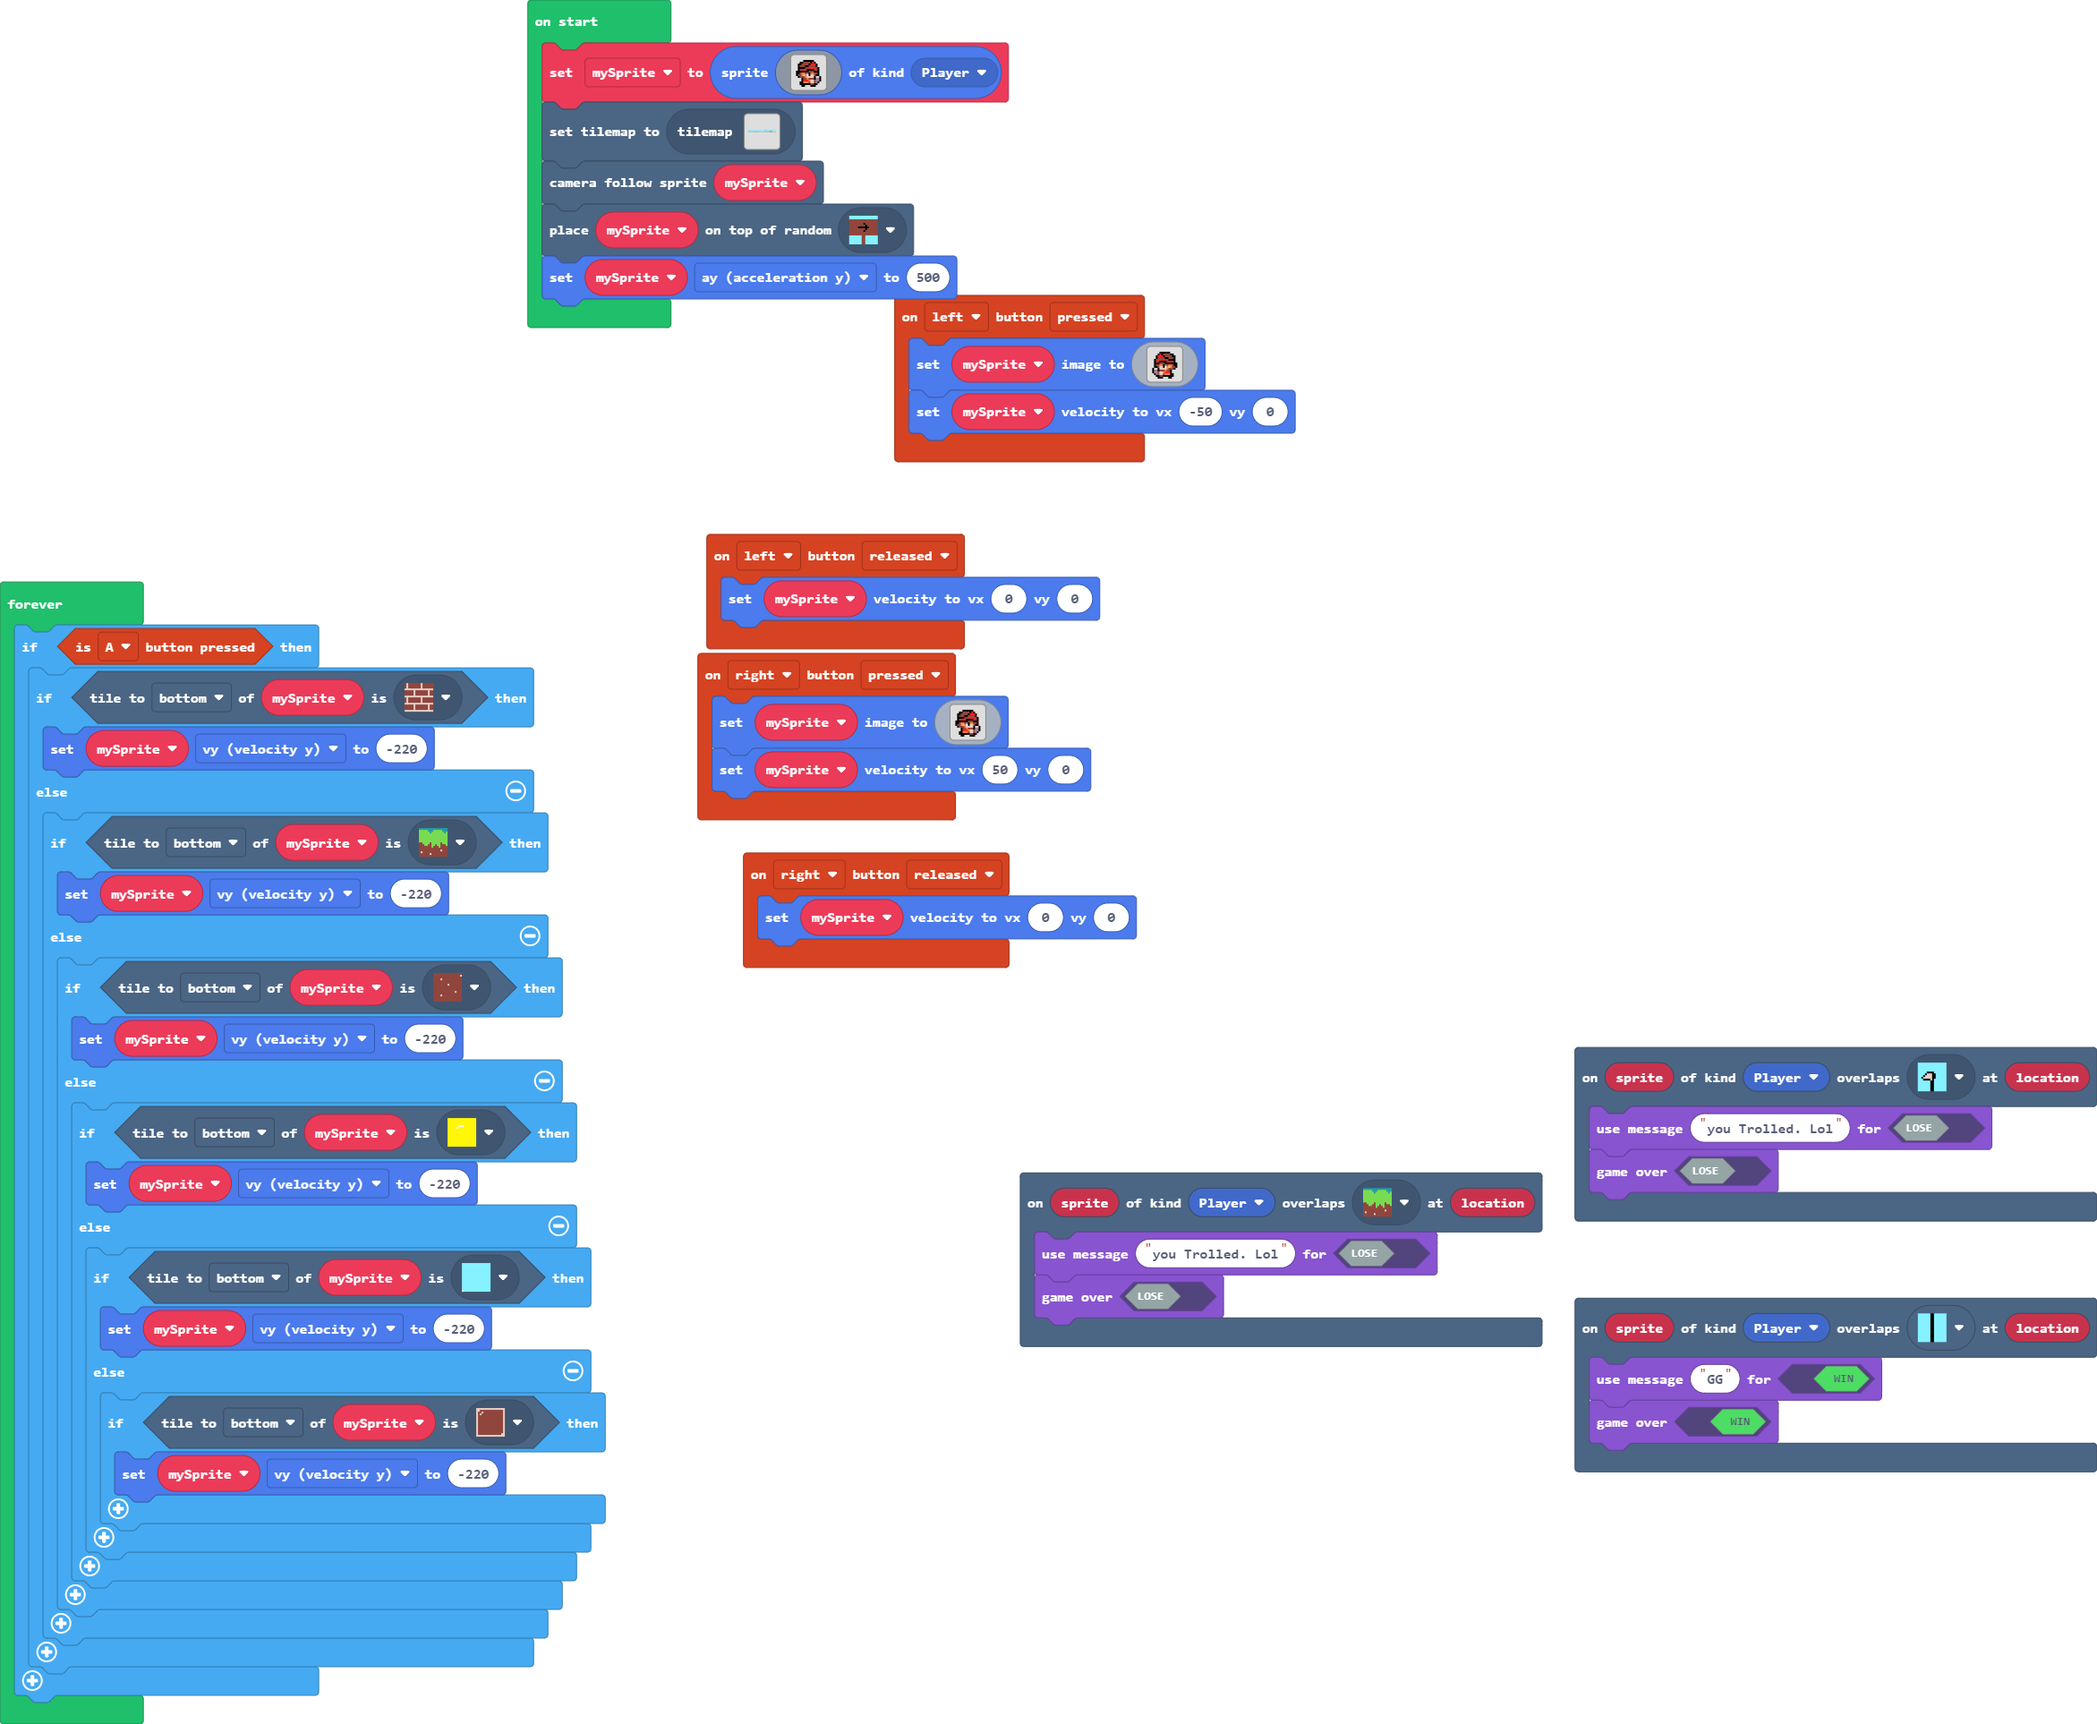
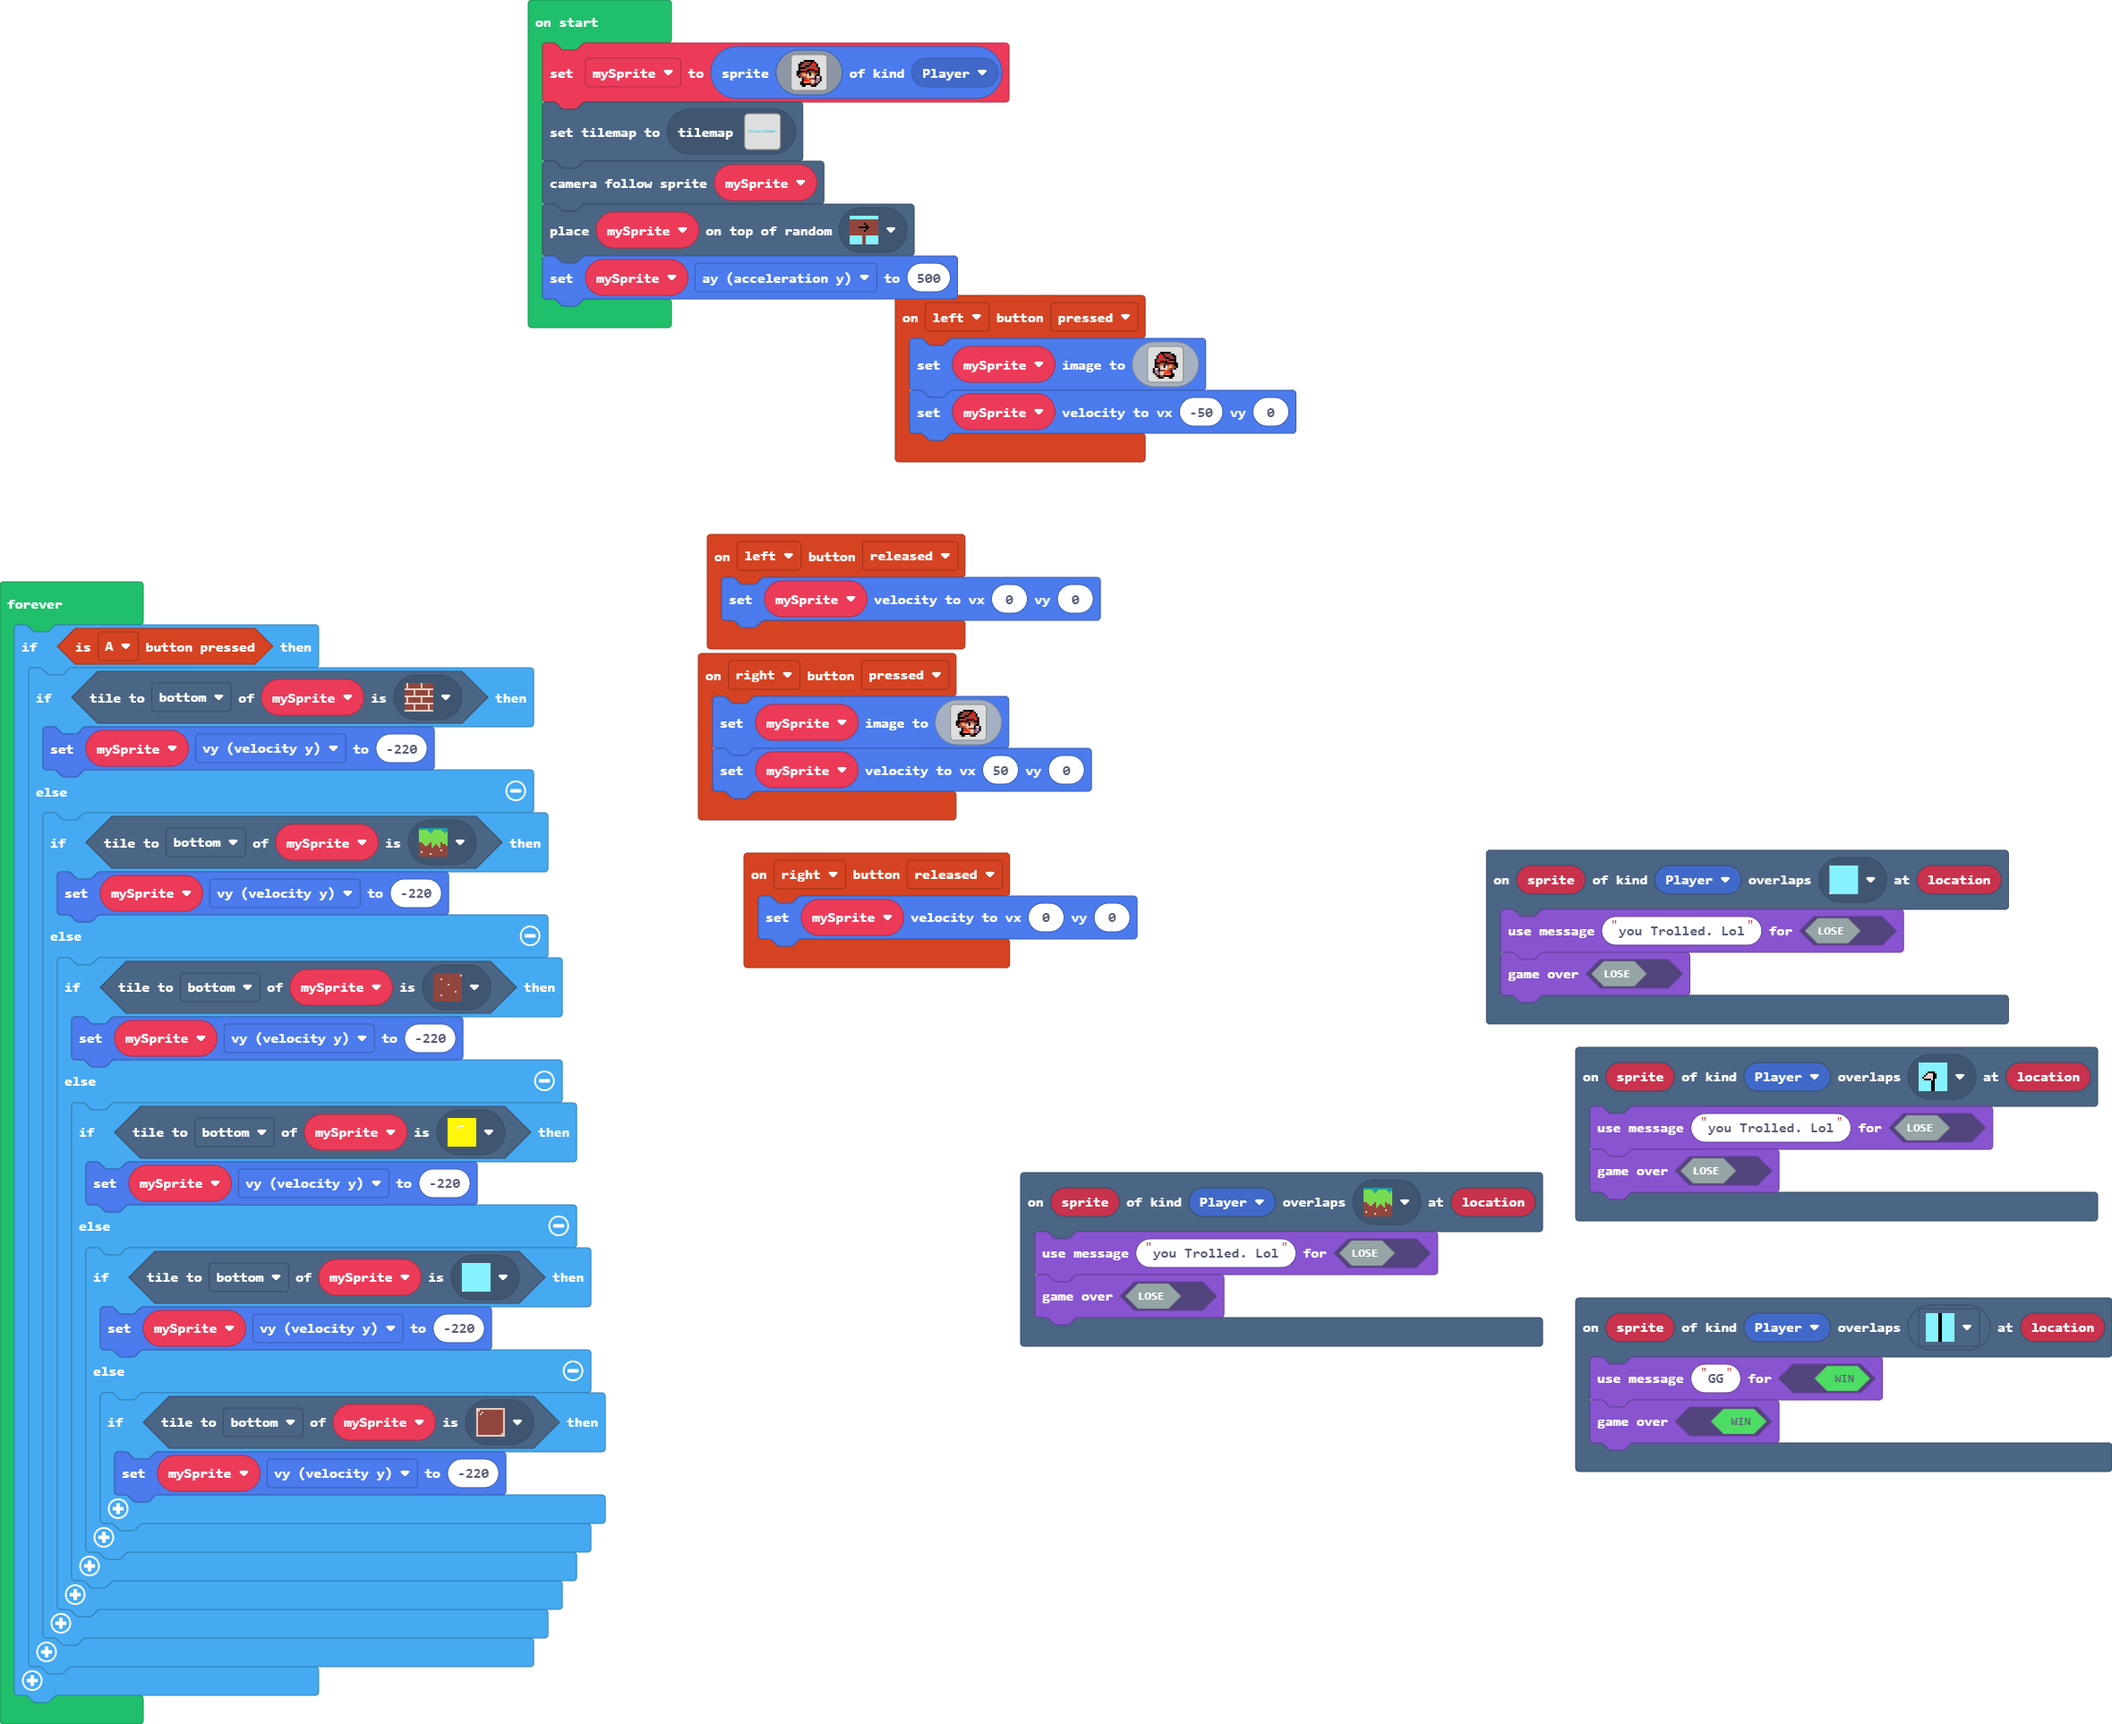
2nd version

diff --git a/tilemap.g.ts b/tilemap.g.ts
@@ -113,17 +113,6 @@ namespace myTiles {
 . . . . . . . . . . . . . . . . 
 . . . . . . . . . . . . . . . . 
 `, [myTiles.transparency16], TileScale.Sixteen);
-            case "level1":
[1 lines of base64/hex data omitted]
-....................................................2...............................................
-............2.................................2.....2........22222..................................
-..........................2.2.......................2..............................2................
-....................................................2.............................22................
-....22222..2..................2..............2......2......2222222...........22..222................
-....................2....2....2....2....................................2....22.2222................
-....................2....2....2....2....2...........2..................222...2222222................
-222222222222...2222222222222222222222222222222...222222222222222222222222222222222222222222222222222
-`, [myTiles.transparency16,myTiles.tile6,myTiles.tile4,myTiles.tile14,myTiles.tile7,myTiles.tile11,myTiles.tile12,myTiles.tile2,myTiles.tile10,myTiles.tile1,myTiles.tile3], TileScale.Sixteen);
             case "level6":
             case "level6":return tiles.createTilemap(hex`1000100000000000000000000000000000000000000000000000000000000000000000000000000000000000000000000000000000000000000000000000000000000000000000000000000000000000000000000000000000000000000000000000000000000000000000000000000000000000000000000000000000000000000000000000000000000000000000000000000000000000000000000000000000000000000000000000000000000000000000000000000000000000000000000000000000000000000000000000000000000000000000000000000000000000000000000000000000000000000000000000000000000000000000000000000000000000`, img`
 . . . . . . . . . . . . . . . . 
@@ -143,6 +132,36 @@ namespace myTiles {
 . . . . . . . . . . . . . . . . 
 . . . . . . . . . . . . . . . . 
 `, [myTiles.transparency16], TileScale.Sixteen);
+            case "level7":
+            case "level7":return tiles.createTilemap(hex`1000100000000000000000000000000000000000000000000000000000000000000000000000000000000000000000000000000000000000000000000000000000000000000000000000000000000000000000000000000000000000000000000000000000000000000000000000000000000000000000000000000000000000000000000000000000000000000000000000000000000000000000000000000000000000000000000000000000000000000000000000000000000000000000000000000000000000000000000000000000000000000000000000000000000000000000000000000000000000000000000000000000000000000000000000000000000000`, img`
+. . . . . . . . . . . . . . . . 
+. . . . . . . . . . . . . . . . 
+. . . . . . . . . . . . . . . . 
+. . . . . . . . . . . . . . . . 
+. . . . . . . . . . . . . . . . 
+. . . . . . . . . . . . . . . . 
+. . . . . . . . . . . . . . . . 
+. . . . . . . . . . . . . . . . 
+. . . . . . . . . . . . . . . . 
+. . . . . . . . . . . . . . . . 
+. . . . . . . . . . . . . . . . 
+. . . . . . . . . . . . . . . . 
+. . . . . . . . . . . . . . . . 
+. . . . . . . . . . . . . . . . 
+. . . . . . . . . . . . . . . . 
+. . . . . . . . . . . . . . . . 
+`, [myTiles.transparency16], TileScale.Sixteen);
+            case "level1":
[1 lines of base64/hex data omitted]
+....................................................2...............................................
+............2.................................2.....2........22222..................................
+..........................2.2.......................2..............................2................
+....................................................2.............................22................
+....22222..2..................2..............2......2......2222222...........22..222................
+....................2....2....2....2....................................2....22.2222................
+....................2....2....2....2....2...........2..................222...2222222................
+222222222222...2222222222222222222222222222222...222222222222222222222222222222222222222222222222222
+`, [myTiles.transparency16,myTiles.tile6,myTiles.tile4,myTiles.tile14,myTiles.tile7,myTiles.tile11,myTiles.tile12,myTiles.tile2,myTiles.tile10,myTiles.tile1,myTiles.tile3], TileScale.Sixteen);
         }
         return null;
     })

diff --git a/main.ts b/main.ts
@@ -1,3 +1,7 @@
+scene.onOverlapTile(SpriteKind.Player, assets.tile`myTile1`, function (sprite, location) {
+    game.setGameOverMessage(false, "you Trolled. Lol")
+    game.gameOver(false)
+})
 scene.onOverlapTile(SpriteKind.Player, assets.tile`myTile4`, function (sprite, location) {
     game.setGameOverMessage(false, "you Trolled. Lol")
     game.gameOver(false)
